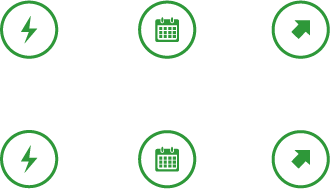
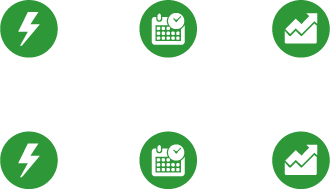
能耗概况、统计分析、统计报表不同分辨率下的样式修改

diff --git a/app/css/main.css b/app/css/main.css
@@ -16,9 +16,8 @@
     height:650px;
 }
 /*统计报表*/
-.report{
-    height:545px!important;
-}
+.report{ height:790px!important;}
+.report2 .report-h{height:745px;}
 .report2 button{
   width:100px;
   height:35px;
@@ -37,15 +36,19 @@
 .servey-left .servey-left-t .stati-date{
     margin-bottom:5px;
 }
+.statical-phone{padding-left:10px;}
 .statistical-left{
     padding-top:0!important;
-    height:300px;
+    height:390px;
 }
 .servey-left-t h5{
     margin:5px 5px 10px 5px;
     background: #1D9F2B;
     color:white;
     padding:10px;
+}
+.statical-h{
+    height:390px!important;
 }
 .stati-left .col-md-3{
   padding:0!important;
@@ -982,27 +985,23 @@
 }
 .load>div>p{ /*最大值*/
     width:90px;
-    height:68px;
-    line-height:68px;
+    height:122px;
+    line-height:122px;
     text-align:center;
     float:left;
 }
 .load>div>span{  
     width:110px;
-    height:68px;
-    line-height:68px;
+    height:122px;
+    line-height:122px;
     float:left;
 }
-.load1 p{  background-color:#D0385E;}
-.load1 span{border:1px solid #D0385E;}
-.load2 p{  background-color:#3079E0;}
-.load2 span{border:1px solid #3079E0;}
-.load3 p{  background-color:#765397;}
-.load3 span{border:1px solid #765397;}
-.load4 p{  background-color:#6AAD22;}
-.load4 span{border:1px solid #6AAD22;}
-.load5 p{  background-color:#F59A2D;}
-.load5 span{border:1px solid #F59A2D;}
+.load1 p{  background-color:#FF9900;}
+.load1 span{border:1px solid #FF9900;}
+.load2 p{  background-color:#67C238;}
+.load2 span{border:1px solid #67C238;}
+.load3 p{  background-color:#DB0B1E;}
+.load3 span{border:1px solid #DB0B1E;}
 .history-time {
     width: 100px;
     text-align: center;
@@ -1799,20 +1798,24 @@
     .main-date{height:300px;}
     .main-container .main-total-2{height:348px;}
     .main-total-left{height:115px;}
-    .main-left3{
-        margin-top:0;
-    }
+    .main-left3{ margin-top:0;}
+    /*统计分析*/
+    .statistical-left{ height:350px;}
+    .statical-h{height:350px!important;}
 }
 @media (max-width: 1366px){
+    /*报表*/
+    .report{ height:600px!important;}
+    .report2 .report-h{height:555px;}
     .main-total-left > span{display:none;}
     .main-total-left{padding-top:10px;padding-left:10px;}
     .main-container .main-total-2{height:296px;}
     .main-date{height:248px;}
     .daily{height:296px;}
     .main-total-left{height:90px;}
-}
-@media (max-width: 768px){
-    .main-container .main-total-2{height:auto;overflow:hidden;}
+    /*统计分析*/
+    .statistical-left{ height:300px;}
+    .statical-h{height:300px!important;}
 }
 @media (max-width: 1024px) {
     .cp-compareanalysis {
@@ -1827,18 +1830,16 @@
     }
     .load>div>p{ /*最大值*/
     width:70px;
-    height:68px;
-    line-height:68px;
-    text-align:center;
-    float:left;
     }
     .load>div>span{  
     width:80px;
-    height:68px;
-    line-height:68px;
-    float:left;
     }
     /*用能概况*/
+    .main-total-rig>span{padding-top:2px;}
+    .main-date{
+        margin-top:-46px;
+        height:258px;
+    }
     .main-dateicon{
         width:80px;
         height:80px;
@@ -1853,4 +1854,50 @@
         min-height: 145px;
         padding-bottom: 10px;
     }
+}
+@media (max-width: 768px){
+    /*报表*/
+    .report2{padding-left:0; }
+    .report2 .report-h{height:300px;}
+    .main-container .main-total-2{height:auto;overflow:hidden;}
+        /*能耗统计*/
+    .servey-left{margin-bottom:10px;}
+    .col-md-8 .class-h{margin-left:-10px;margin-right:-5px;}
+    .class-bottom{
+        margin-right:-5px;
+        height:auto;
+        overflow:hidden;
+    }
+    .class-b-left{height:60%;}
+    .class-search{margin-top:10px;margin-bottom:10px;}
+    /*用能概况*/
+    .main-container{margin-bottom:30px;}
+    .main-date{
+        height:180px;
+        padding-top:46px;
+    }
+}
+@media (max-width: 600px) {
+    /*统计分析*/
+    .servey-left{margin-bottom:0;}
+    .statical-h{margin-bottom:10px;}
+    .statical-phone{padding-left:0!important;}
+    .main-container .stati-bottom{padding-bottom:0!important;}
+   .main-date-pl{margin-top:5px;padding:0;}
+   .main-container .col-md-6{padding:0 0 10px 0;}
+   .header-inner .navbar-brand{width:65%;}
+   .main-container{padding:0 10px 0 10px;}
+   .col-md-8 .class-h{
+    height:auto;
+    overflow: hidden;
+   }
+   /*用能概况*/
+   .load-calc{width:100%!important;}
+   .load{
+    width:100%;
+    margin-left:0;
+    }
+   .load div{width:100%;}
+   .load>div>p{width:35%;height:60px;line-height: 60px;}
+   .load>div>span{width:65%;height:60px;line-height: 60px;}
 }
